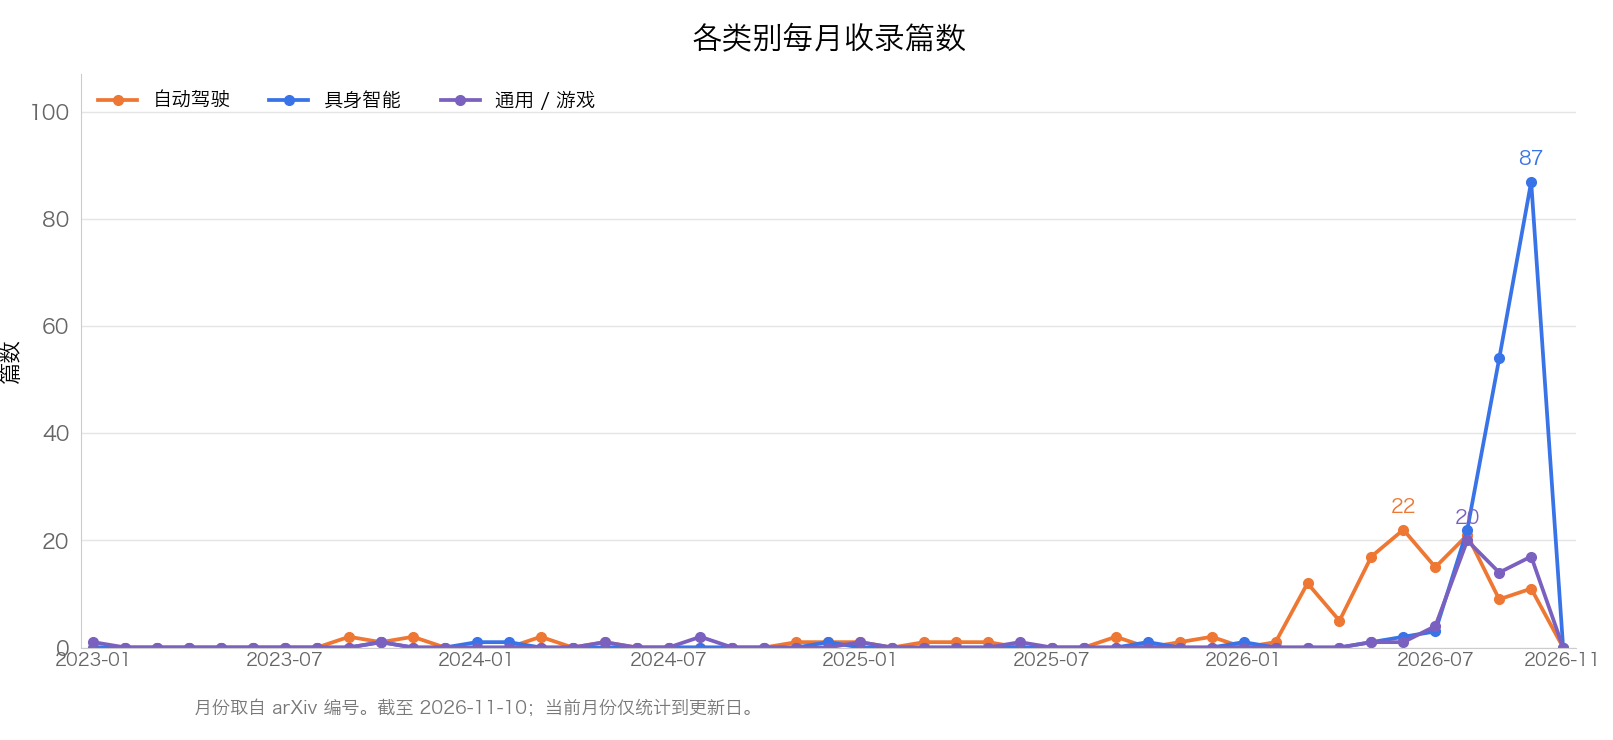
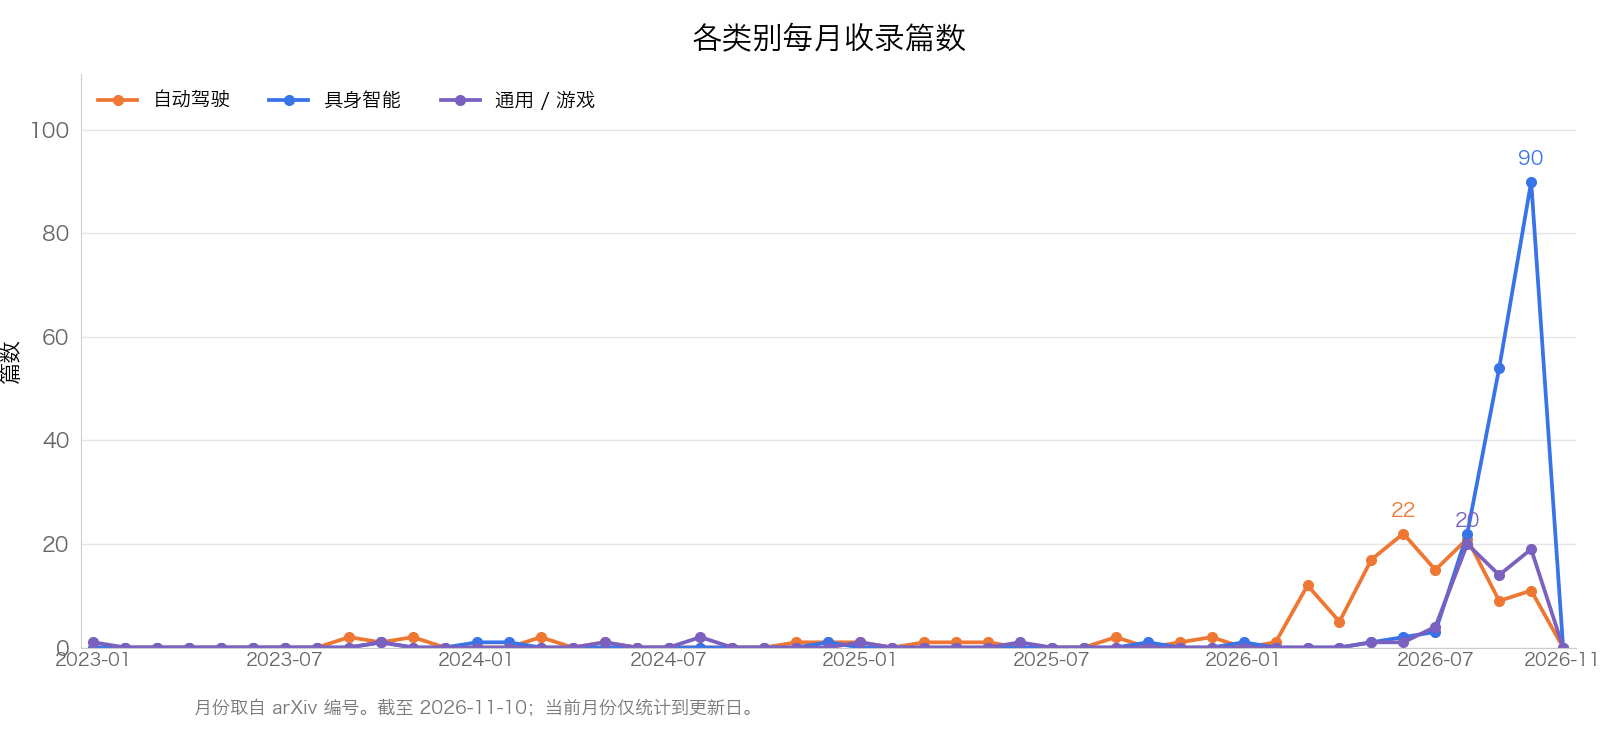
[update] aw-0, cadre, liveact, causal world models, physicalworld
Curate 5 of 6 candidates from issue #50, record screening decisions, and regenerate bilingual READMEs and monthly charts.

diff --git a/README.en.md b/README.en.md
@@ -10,7 +10,7 @@
 
 World models learn dynamic representations of their environments to predict and imagine the future. Interactive world models further support action-conditioned generation and control, providing data engines, neural simulators, and a foundation for policy learning in autonomous driving and embodied AI. This repository collects representative work, organized by application domain and annotated with its interactive capabilities.
 
-📊 **371** papers collected | Last updated: 2026-11-10
+📊 **376** papers collected | Last updated: 2026-11-10
 
 <p align="center">
   <img src="assets/interactive-world-model.en.svg" alt="Interactive world models: closed-loop interaction between agents and world models" width="760">
@@ -32,8 +32,8 @@ World models learn dynamic representations of their environments to predict and 
 ## Contents
 
 - [Autonomous Driving](#autonomous-driving) (132)
-- [Embodied AI](#embodied-ai) (175)
-- [General / Game](#general--game) (64)
+- [Embodied AI](#embodied-ai) (178)
+- [General / Game](#general--game) (66)
 
 ## Autonomous Driving
 
@@ -182,6 +182,7 @@ World models learn dynamic representations of their environments to predict and 
 | **ALONE**: Acting from Belief, Looking When Needed: A Bayesian Spatial World Model for Navigation under Intermittent Perception | arXiv (2026) | Qiyuan Lab / Tsinghua University | 🎮 🔁 | [Paper](https://arxiv.org/abs/2610.11591) | Geometrically transports spatial beliefs using executed actions, then learns completion and observation correction, using reliability maps to decide when to reacquire depth. All 10 drone trials in an indoor Lattice environment complete 10-meter navigation, acquiring depth on 7.0% of decision steps. Validation covers static environments only and still relies on visual-inertial odometry for belief propagation. |
 | **Action Jets**: Learning the Local Shape of the Action-conditioned Data Manifold | arXiv (2026) | University of Michigan | 🎮 | [Paper](https://arxiv.org/abs/2610.19007) \| [Project](https://anton-arapin.github.io/action-jets-site/) | Extracts action tangents from a frozen generator and learns third-order corrections, then evaluates candidate action outcomes in batches with polynomials. In offline verification of 32 action candidates on BridgeData V2, action MSE is 0.025 versus 0.030 for IRASim. Zero action is constrained to the identity map; evaluation is short-horizon and open-loop, with worse image quality than IRASim at steps 3–4. |
 | **Rollout Truncation**: Adaptive Rollout Truncation Based on Epistemic Uncertainty for Efficient Offline World Model Training | arXiv (2026) | TUM | 🎮 ⏳ | [Paper](https://arxiv.org/abs/2609.21482) | Multi-step autoregression extends world-model predictions, but fixed rollout lengths amplify early errors and waste computation while the model remains inaccurate. After warm-up, a rollout is truncated when epistemic uncertainty exceeds a threshold. On ANYmal-D, prediction accuracy is comparable to fixed-length rollouts and RWM-U, with approximately 72% less rollout computation. |
+| **AW-0**: Agentic World Action Models | arXiv (2026) | UC Berkeley / NVIDIA / University of Pennsylvania | 🔁 | [Paper](https://arxiv.org/abs/2610.30136) \| [Project](https://agentic-wam.github.io/) \| [Code](https://github.com/ZhuoyangLiu2005/agentic-wam) | Jointly denoises skill programs, future video, and actions, reobserving after program or action-chunk execution. Its average rubric score across eight real-robot tasks is 71.1%, rather than binary success. RoboTwin visual-randomization success is 20.6%, below π0.5's 27.7%; video prediction is not externally action-conditioned. |
 | **AnisoWM**: Anisotropic Representations Improve Planning in JEPA World Models | arXiv (2026) | Seoul National University / Ewha Womans University | 🎮 🔁 | [Paper](https://arxiv.org/abs/2609.37441) \| [Project](https://rkdrn79.github.io/AnisoWM-page/) | Keeps the predictor and Euclidean planner unchanged, replacing only an isotropic Gaussian target with a learnable diagonal covariance. Planning success exceeds LeWM in all four environments: TwoRoom rises from 87% to 93%, Reacher from 86% to 89%, PushT from 96% to 97%, and Cube from 74% to 79%. Spearman correlation between latent cost and task cost increases from 0.15 to 0.91 on Cube and from 0.65 to 0.92 on PushT. |
 | **AnyWorld**: Factorized Egocentric World Models for Cross-Embodiment Generalization | arXiv (2026) | — | 🎮 | [Paper](https://arxiv.org/abs/2608.29242) | Decomposes a single human interaction into three controllable factors: action, camera, and embodiment. Action control captures motion structure, camera control specifies viewpoint evolution, and target-embodiment context defines the executing body and its interaction geometry. Without paired human-robot demonstrations, an egocentric human video can be recomposed into diverse robot-native rollouts while preserving the underlying dynamics and object interactions. Following large-scale human-interaction pretraining and mixed-embodiment fine-tuning, generated data improve manipulation on the RoboCasa GR1 tabletop benchmark and the real IRON humanoid robot. Ablations show that both action calibration and visual recomposition are necessary. |
 | **Back on Track**: Deployment-time Policy Improvement via World Model Planning | arXiv (2026) | Stanford University / University of Southern California | 🎮 🔁 | [Paper](https://arxiv.org/abs/2610.19579) \| [Project](https://policy-improvement-wm.pages.dev/) | A policy-conditioned liveness value monitors execution and guides short corrective plans in a latent world model; across 3,000 paired trials on perturbed LIBERO-Goal, π0.5 success rises from 72.6% to 81.5%. Policy- and task-specific data are required, and model errors can still disrupt otherwise successful executions. |
@@ -194,6 +195,7 @@ World models learn dynamic representations of their environments to predict and 
 | **CF-JEPA**: Improving Robustness of JEPA World Models via Controllability Factorization | arXiv (2026) | Georgia Institute of Technology / Georgia Tech Research Institute | 🎮 🔁 | [Paper](https://arxiv.org/abs/2610.00727) | Splits JEPA's latent space into controllable and uncontrollable components and plans only with the controllable component. Under two visual distractors, LeWM collapses on all tasks; Reacher success is 0.10 for SMWM and 0.48 for CF-JEPA. With additional distractors, SMWM's PushT and TwoRoom success drops from 0.86 and 0.98 to 0.27 and 0.46, while CF-JEPA maintains 0.57 and 0.82. |
 | **CLAP**: Cross-Embodiment Video World Models are Zero-Shot Physical Simulators | arXiv (2026) | — | 🎮 | [Paper](https://arxiv.org/abs/2608.27406) \| [Project](https://omni-clap.github.io) | Unifies heterogeneous action spaces through end-effector poses, language instructions, and latent actions. Curriculum-based cross-embodiment training first learns physical priors from unlabeled internet videos, then grounds them in real action spaces for zero-shot deployment. It approaches or exceeds single-embodiment SOTA in environments including DROID; all code and models are open source. |
 | **OneWM**: Can World and Action Modeling Benefit Each Other under Unified Causal Training? | arXiv (2026) | The University of Hong Kong / Shanghai Jiao Tong University / Tsinghua University / SII / University of Chinese Academy of Sciences / IAAI Team | 🎮 🔁 | [Paper](https://arxiv.org/abs/2610.21095) \| [Project](https://selen-suyue.github.io/OneWMNet) | Within one causal architecture, supervises world prediction with the visual consequences of specified actions and jointly learns actions. Against action-masked WAMmask, overall success rises from 53.37% to 59.27% on LIBERO-Plus and from 28.32% to 36.68% on RoboCasa365. Across three real-robot tasks with 15 trials each, mean success rises from 48.9% to 66.7%. Policy deployment does not generate future video. On LIBERO, Fast-WAM remains at 97.60% while OneWM reaches 94.95%. |
+| **Causal world models under physical parameter shifts** | arXiv (2026) | The City College of New York | 🎮 | [Paper](https://arxiv.org/abs/2610.29088) | Combines mass-affine dynamics, known PD control, and learned residuals. In 150-step CausalWorld mass extrapolation, median time-averaged joint R² rises from 0.609 for the fixed-mass-input control to 0.727. The forecast spans only 0.6 seconds and assumes known masses and controller dynamics; real robots and downstream closed-loop control are untested. |
 | **CausalNav**: Reliability-Certified Causal World Models for Control under Physical-Parameter Shift | arXiv (2026) | Jun Shen team | — | [Paper](https://arxiv.org/abs/2608.07809) | A reliability-certified causal world model for navigation control under changes in physical parameters. |
 | **CausalWM**: Causal Chain-of-Thought Reasoning for Embodied World Model | arXiv (2026) | Aether AI | 🎮 | [Paper](https://arxiv.org/abs/2609.23184) \| [Project](https://aetherlabsai.github.io/CausalWM/) \| [Code](https://github.com/AetherLabsAI/CausalWM) | A 16B embodied video world model that predicts optical flow first, then 3D point maps, and finally future frames, with each preceding result fixed as context for the next stage. Training uses approximately 31,000 hours of embodied data. On the September 11, 2026 TriWorldBench evaluation, it ranks first among 36 publicly available models with 66.04, exceeding second place by 0.50. |
 | **CAG**: Completion Aware Guidance for World Action Models | arXiv (2026) | Seoul National University / KAIST | 🎮 🔁 | [Paper](https://arxiv.org/abs/2610.01559) | Short-chunk control can cause world-action models to repeatedly select plausible local continuations while omitting the state transitions needed to complete the task. CAG provides training-free sampling guidance without retraining the backbone. Success rises from 64% to 70% on a RoboTwin 2.0 subset and from 69% to 75% in zero-shot simulation, while imagined task non-completion falls from 79% to 40%. |
@@ -273,6 +275,7 @@ World models learn dynamic representations of their environments to predict and 
 | **Pelican-Sim**: Pelican-Sim 1.0: A General World Model Simulator for Embodied Intelligence | arXiv (2026) | X-Humanoid | 🎮 🔁 | [Paper](https://arxiv.org/abs/2609.12036) \| [Project](https://zoushilong1024.github.io/Pelican-Sim1.0/) \| [Code](https://github.com/Open-X-Humanoid/Pelican-Sim1.0) | Predicts future observations using a unified 28-dimensional action interface, camera-aligned action-video injection, and sparse MoE, trained on approximately one million real-robot and simulated trajectories. After four-step autoregressive distillation, it augments 50 demonstrations per RoboTwin task with 500 additional generated trajectories, raising policy success from 70% to 93%. It also supports policy ranking, action selection, and policy improvement in imagination. |
 | **PhysCoRe**: Physics-Corrected Residual World Models for Material-Aware Deformable Dynamics | CoRL (2026) | Georgia Tech | 🎮 🔁 | [Paper](https://arxiv.org/abs/2607.20653) \| [Project](https://lunarlab-gatech.github.io/PhysCoRe-website/) \| [Code](https://github.com/lunarlab-gatech/PhysCoRe) | A differentiable material-point-method simulator handles basic physics. One network estimates each particle's elasticity from images, while another corrects systematic simulator bias. It can identify materials of new objects online, and regions with less certain predictions are more valuable to probe through contact. Prediction accuracy on real-robot soft-object manipulation sequences exceeds existing baselines. |
 | **PhysReal**: Learning Real-World Deformable Object Physics via Hybrid Constitutive Modeling | arXiv (2026) | Beijing Institute of Technology | — | [Paper](https://arxiv.org/abs/2609.07532) \| [Project](https://physreal.github.io/) | Learns real deformable-body physics from video: analytical expert constitutive models provide interpretable priors, neural residuals capture unmodeled responses, and spatially partitioned parameters represent local material differences, combined with differentiable MPM and 3DGS. A curriculum sequentially optimizes global, local, and residual components for dynamic reconstruction, future-state prediction, and downstream manipulation. |
+| **PhysiCalWorld**: In-Context Physics Calibration for World Models | arXiv (2026) | University of Michigan | 🎮 🔁 | [Paper](https://arxiv.org/abs/2610.30125) \| [Project](https://physical-world.github.io/) \| [Code](https://github.com/physical-world/physical-world-release) | Compresses exploratory interaction into a physics descriptor token to calibrate action-conditioned latent dynamics without fine-tuning. With a 75-step budget in simulated Push-T, DINO-WM closed-loop success rises from 56.0% to 68.0%; prior interaction and stationary episode physics are required, without real-robot validation. |
 | **PhysCanvas**: Physical Canvas: A Vision Tactile World Model For Robot Policy Evaluation And Learning | arXiv (2026) | CASIA / Anyverse Robotics / Open-Phoenix Team / National University of Singapore / Xi'an Jiaotong University / Beijing Institute of Technology | 🎮 🔁 | [Paper](https://arxiv.org/abs/2610.28613) \| [Project](https://zebinx.github.io/PhysCanvas_HomePage/) \| [Code](https://github.com/OpenPhoenix-Team/PhysCanvas) | Unifies vision, touch, and task state on an image canvas, predicts futures from projected joint actions, and uses consistency supervision for closed-loop evaluation and GRPO inside the model. Across four real-robot tasks, π0.5 mean success rises from 59.1% to 70.8%, with task-dependent gains. Training and RL post-training code is not fully released. |
 | **PlayPolicy**: Dexterity from Supervised Play | arXiv (2026) | Amazon Frontier AI & Robotics / University of Maryland | 🎮 🔁 | [Paper](https://arxiv.org/abs/2610.22340) \| [Project](https://play-policy.github.io/) | An action-conditioned world model is trained on autonomous play and used for model-predictive control over play-policy proposals. Simulated reorientation succeeds on 72.7/91.4/96.1% of 128 distant-goal trials at 0.4/0.6/0.8 rad, versus 25.8/53.9/71.9% for hindsight behavior cloning; real-robot rates are 68.6/90.0/97.1%, within 4.1 points of simulation. Median replanning takes 134 ms on an RTX 5090, and code is not yet released. |
 | **PointCast**: One World Model for Rigid, Articulated, and Deformable Object Manipulation | arXiv (2026) | University of Minnesota | 🎮 🔁 | [Paper](https://arxiv.org/abs/2609.28393) \| [Project](https://pointcast-wm.github.io) | Represents states with 3D points on objects and the end effector, maintaining each point's identity and supervising it along its own trajectory. The same 19.8M diffusion Transformer and training recipe cover rigid bodies, cloth, ropes, and articulated cabinets, with separate weights for each regime. Simulated rollout error is best on cloth, ropes, and cabinets; real-robot PGND error is lowest in four of six categories and improves over the original model in all six. Frozen inside sampling-based model predictive control, it achieves a pushing pose error of 1.39 cm and a rope-dragging Chamfer distance of 1.71 cm. |
@@ -379,6 +382,7 @@ World models learn dynamic representations of their environments to predict and 
 | **LeHami**: Symplectic Latent Dynamics for World Models | arXiv (2026) | New York University / Brown University / AMI Labs | 🎮 🔁 | [Paper](https://arxiv.org/abs/2610.15267) \| [Code](https://github.com/rominay/LeHami) | Learns an action-conditioned Hamiltonian over position–momentum latents, using symplectic leapfrog integration to preserve latent phase-space volume. Validation is limited to visual pendulums. At 15 TFLOPs per episode and a replanning interval of 9, joint position-and-velocity goal success is 26%, versus 39% for a three-frame LeWM baseline; the structural guarantee does not establish uniformly better control. |
 | **LeWi**: Learning Computational Structure for Sample-Efficient Prediction | arXiv (2026) | Georgia Institute of Technology / University of Cyprus | 🎮 | [Paper](https://arxiv.org/abs/2610.28555) | Jointly learns connectivity and weights through low-dimensional neuron embeddings to predict state changes from the current state and action. In 16-step open-loop evaluation across 17 simulated tasks with 16 paired seeds, it improves sample efficiency over dense networks on 16 tasks. Closed-loop control is untested, and sparse connectivity is still computed densely. |
 | **VPM**: Learning the 4D World through Point Trajectory Forecasting | arXiv (2026) | KAIST / ETH Zürich / Seoul National University / New York University / RLWRLD / Physics Sim Lab | 🔁 | [Paper](https://arxiv.org/abs/2610.28594) \| [Project](https://rootyjeon.github.io/video-point-model/) \| [Code](https://github.com/rootyJeon/VPM) | Jointly forecasts multi-view video and persistent 3D point trajectories, with matched-budget ablations showing gains in geometric consistency and robot action learning. Forecast tracks support qualitative receding-horizon control through kinematic conversion, but joint action generation does not establish externally action-conditioned prediction, and calibrated cameras are required. |
+| **LiveAct**: Towards Real-Time Multi-Agent World Models with Heterogeneous Action Interfaces | arXiv (2026) | Tsinghua University / Kling Team / HKUST / Peking University / University of Science and Technology of China | 🎮 ⚡ | [Paper](https://arxiv.org/abs/2610.29408) \| [Project](https://liveact-ai.github.io/) | Unifies multi-agent game and robot control through agent-specific spatial gating and semantic–numerical action interfaces. It reports 17.70 FPS at 512×448 on one GPU without naming the GPU model. Quantitative evaluation covers 81 frames; distillation improves speed while reducing some robot-control accuracy, without closed-loop policy validation. |
 | **LongForcing**: Scaling Temporal Manifold Matching for Long-Horizon World Rollout | arXiv (2026) | AMAP, Alibaba Group / Tsinghua University | 🎮 ⏳ | [Paper](https://arxiv.org/abs/2610.18289) | Supervises long student self-rollouts with an extended-window teacher while retaining the inference architecture. With a fixed 1.3B backbone on first-person 60-second WorldRoamBench rollouts, extending supervision from about 5 to 20 seconds raises action score from 64.39 to 88.26. Teacher checkpoints also change with the window; 24-hour rollouts are qualitative stress tests only. |
 | **LpWM**: A Case for Sparse Representations in World Models | arXiv (2026) | NYU / AMI Labs | 🎮 🔁 | [Paper](https://arxiv.org/abs/2608.22764) \| [Code](https://github.com/YilunKuang/lpworldmodel) | Argues that sparse representations provide more favorable geometry for world models: RDMReg regularizes JEPA to learn nonnegative sparse latent codes, improving planning success rates on PushT by up to 57% with lower predictor complexity, while the learned representations exhibit an interpretable structure decomposed into modes. |
 | **MASS**: Multiplayer World Models with Authoritative Shared State | arXiv (2026) | Boxin Shi's team | — | [Paper](https://arxiv.org/abs/2608.06257) | A multiplayer world model with authoritative shared state that addresses state synchronization across multiple agents. |
@@ -396,6 +400,7 @@ World models learn dynamic representations of their environments to predict and 
 | **Qwen-RobotWorld**: A Joint World Model Integrating Driving, Navigation and Manipulation | arXiv (2026) | Alibaba Qwen | 🎮 | [Paper](https://arxiv.org/abs/2606.17030) | Uses language as a unified action interface to extend video world models to autonomous driving, navigation, and robotic manipulation. |
 | **R2M-Bench**: Evaluating Revisit Memory via Relative Consistency in Interactive Video World Models | arXiv (2026) | — | — | [Paper](https://arxiv.org/abs/2608.27328) \| [Code](https://github.com/AMAP-ML/R2MBench) | Shows that absolute similarity between first-visit and revisit frames can be misled by a 'slow-motion shortcut'. It proposes MemoryGain and the normalized memory ratio NMR, calibrated relatively using gap-matched non-revisit pairs and short-range pairs within the same rollout. The benchmark covers appearance, scene and object identity, local geometry, and persistent state, evaluates 7 action-conditioned video world models, and correlates with human consistency judgments at rho=0.547. |
 | **PROWBench**: ROWBench: Do Video Models Render What the Program Specifies? | arXiv (2026) | Alaya Lab | — | [Paper](https://arxiv.org/abs/2610.02205) \| [Project](https://alaya-lab.github.io/PROWBench) \| [Code](https://github.com/AlayaLab/PROWBench) | Contains 170 program-generated episodes and 600 proxy videos. The engine records entity states and timestamped events, including off-screen events, then checks whether generated videos render those events. Metrics cover entity control, long-term memory, logic-to-visual alignment, and interaction success rate. |
+| **CADRE**: Rethinking Video Autoencoders for Interactive World Models | arXiv (2026) | Kyutai / LIGM, ENPC, IP Paris, CNRS, UGE / UC Berkeley | 🎮 ⚡ ⏳ | [Paper](https://arxiv.org/abs/2610.30129) \| [Project](https://kyutai.org/blog/2026-10-22-cadre/) \| [Code](https://github.com/kyutai-labs/cadre-autoencoders-and-world-models) \| [Demo](https://cadre-wm.kyutai.org/) | Compares causal video compression through matched world-model architectures across four environments. On one H100 at 288×512, the 2×32×32 configuration with one-step decoding supports a 20 FPS display and 185 ms action latency; 64-second fixed-camera robot-manipulation rollouts are evaluated quantitatively. Compression depends on camera motion, models are trained per environment, and policy-planning benefits remain untested. |
 | **SCOPE**: Score-Isolated Agentic Optimization for Video World Models | arXiv (2026) | Yuhua Jiang's team | 🎮 | [Paper](https://arxiv.org/abs/2608.15043) | Proposes a score-isolated agentic optimization framework that decouples the evaluation of prompts, samplers, verifiers, and selectors, making inference-time optimization of video world models more reliable for planning and embodied decision-making. |
 | **SPW-Nav**: A Streaming Panoramic World Model for Language-Guided Navigation | arXiv (2026) | Alaya Lab / Peking University / Institute of Science Tokyo | 🎮 ⚡ ⏳ | [Paper](https://arxiv.org/abs/2610.08941) \| [Project](https://alaya-lab.github.io/SPW-Nav/) | Converts language instructions grounded in the current generated panorama into camera motion, decoupling spherical rotation resampling from translation generation. Pose-aligned conditioning and multi-term memory support instruction switching during streaming. From one panorama, it generates a continuous minute of 2048 x 1024 video at 26.6 FPS on eight H200 GPUs, with a 16 FPS playback rate. SPW-NavSet contains 233 hours of panoramic video. |
 | **STRIKE**: Learning Visual State Transitions for Physical World Modeling | arXiv (2026) | Applied Intuition / University of Southern California / University of California, Berkeley | — | [Paper](https://arxiv.org/abs/2610.09514) | Learns next visual states conditioned on local event descriptions and elapsed time from event-aligned video state pairs, then guides dense video generation with recursively predicted states and timestamps. The CogVideoX-5B version raises the Physics-IQ Verified score from 30.5 to 41.9. Interactions are expressed as textual events; action-trajectory control and closed-loop robot execution are not validated. |

diff --git a/README.md b/README.md
@@ -10,7 +10,7 @@
 
 世界模型 (World Model) 通过学习环境的动态表征，实现对未来的预测与想象； 可交互世界模型进一步支持以动作 (action) 为条件的生成与控制， 为自动驾驶和具身智能提供数据引擎、神经仿真器与策略学习基础。 本仓库收录并整理该方向的代表性工作，按应用场景分类， 并标注每篇工作的交互能力维度。
 
-📊 共收录 **371** 篇工作 ｜ 最后更新：2026-11-10
+📊 共收录 **376** 篇工作 ｜ 最后更新：2026-11-10
 
 <p align="center">
   <img src="assets/interactive-world-model1.png" alt="交互式世界模型：智能体与世界模型的闭环交互" width="760">
@@ -32,8 +32,8 @@
 ## 目录
 
 - [自动驾驶 Autonomous Driving](#自动驾驶-autonomous-driving)（132）
-- [具身智能 Embodied AI](#具身智能-embodied-ai)（175）
-- [通用 / 游戏 General / Game](#通用--游戏-general--game)（64）
+- [具身智能 Embodied AI](#具身智能-embodied-ai)（178）
+- [通用 / 游戏 General / Game](#通用--游戏-general--game)（66）
 
 ## 自动驾驶 Autonomous Driving
 
@@ -182,6 +182,7 @@
 | **ALONE**: Acting from Belief, Looking When Needed: A Bayesian Spatial World Model for Navigation under Intermittent Perception | arXiv (2026) | 启元实验室 / 清华大学 | 🎮 🔁 | [论文](https://arxiv.org/abs/2610.11591) | 先按已执行动作几何搬运空间信念，再学习补全与观测修正，并用可靠性图决定何时重新获取深度。室内 Lattice 环境的 10 次无人机试验全部完成 10 米导航，深度采集占决策步的 7.0%；仅验证静态环境，仍依赖视觉惯性里程计传播信念。 |
 | **Action Jets**: Learning the Local Shape of the Action-conditioned Data Manifold | arXiv (2026) | University of Michigan | 🎮 | [论文](https://arxiv.org/abs/2610.19007) \| [项目](https://anton-arapin.github.io/action-jets-site/) | 从冻结生成器提取动作切线并学习三阶校正，随后用多项式批量评估动作后果。BridgeData V2 离线 32 候选动作验证中，动作 MSE 为 0.025，IRASim 为 0.030；零动作被约束为恒等映射，仅验证短时开环，第 3–4 步画质落后于 IRASim。 |
 | **Rollout Truncation**: Adaptive Rollout Truncation Based on Epistemic Uncertainty for Efficient Offline World Model Training | arXiv (2026) | TUM | 🎮 ⏳ | [论文](https://arxiv.org/abs/2609.21482) | 多步自回归能拉长世界模型的预测，但固定展开长度在模型还不准时会放大早期错误并浪费计算。热身之后，认知不确定性超过阈值就截断这次展开。在 ANYmal-D 上，预测精度与固定长度和 RWM-U 相当，展开计算大约少 72%。 |
+| **AW-0**: Agentic World Action Models | arXiv (2026) | UC Berkeley / NVIDIA / University of Pennsylvania | 🔁 | [论文](https://arxiv.org/abs/2610.30136) \| [项目](https://agentic-wam.github.io/) \| [代码](https://github.com/ZhuoyangLiu2005/agentic-wam) | 联合去噪技能代码、未来视频与动作，并在代码或动作块执行后重新观察；八项真机任务的平均 rubric 得分为 71.1%，并非二值成功率。RoboTwin 视觉随机化成功率为 20.6%，低于 π0.5 的 27.7%；视频预测不以外部动作为条件。 |
 | **AnisoWM**: Anisotropic Representations Improve Planning in JEPA World Models | arXiv (2026) | 首尔大学 / 梨花女子大学 | 🎮 🔁 | [论文](https://arxiv.org/abs/2609.37441) \| [项目](https://rkdrn79.github.io/AnisoWM-page/) | 预测器和欧氏规划器不动，只把各向同性高斯目标换成可学习的对角协方差。四个环境的规划成功率都高于 LeWM：TwoRoom 87% 到 93%，Reacher 86% 到 89%，PushT 96% 到 97%，Cube 74% 到 79%。Cube 上潜代价与任务代价的 Spearman 相关从 0.15 到 0.91，PushT 从 0.65 到 0.92。 |
 | **AnyWorld**: Factorized Egocentric World Models for Cross-Embodiment Generalization | arXiv (2026) | — | 🎮 | [论文](https://arxiv.org/abs/2608.29242) | 把单次人类交互分解为动作、相机、本体三个可控因子——动作控制捕捉运动结构、相机控制指定视角演化、目标本体上下文定义执行身体及其交互几何，无需成对 human-robot 演示即可将一段第一视角人类视频重组合成多样的机器人原生 rollout，同时保留底层动力学与物体交互；经大规模人类交互预训练+混合本体微调，生成数据可提升 RoboCasa GR1 桌面基准与真机 IRON 人形机器人操作性能，消融表明动作校准与视觉重组合二者缺一不可。 |
 | **Back on Track**: Deployment-time Policy Improvement via World Model Planning | arXiv (2026) | Stanford University / University of Southern California | 🎮 🔁 | [论文](https://arxiv.org/abs/2610.19579) \| [项目](https://policy-improvement-wm.pages.dev/) | 以策略条件活性价值监测执行并引导潜空间世界模型的短时纠偏，在扰动 LIBERO-Goal 的 3,000 次配对试验中将 π0.5 成功率从 72.6% 提升至 81.5%；需策略与任务相关数据，模型误差仍会破坏原本成功的执行。 |
@@ -194,6 +195,7 @@
 | **CF-JEPA**: Improving Robustness of JEPA World Models via Controllability Factorization | arXiv (2026) | 佐治亚理工学院 / 佐治亚理工研究院 | 🎮 🔁 | [论文](https://arxiv.org/abs/2610.00727) | 把 JEPA 潜空间拆成可控和不可控两部分，规划只用可控部分。两个视觉干扰下，LeWM 在全部任务上坍缩；Reacher 上 SMWM 成功率 0.10，CF-JEPA 为 0.48。干扰再增加时，SMWM 的 PushT 和 TwoRoom 从 0.86、0.98 掉到 0.27、0.46，CF-JEPA 维持 0.57 和 0.82。 |
 | **CLAP**: Cross-Embodiment Video World Models are Zero-Shot Physical Simulators | arXiv (2026) | — | 🎮 | [论文](https://arxiv.org/abs/2608.27406) \| [项目](https://omni-clap.github.io) | 用末端位姿、语言指令与潜动作统一异构动作空间，以课程式跨本体训练先从无标注互联网视频学物理先验、再接地到真实动作空间做零样本部署，在 DROID 等环境逼近或超越单本体 SOTA，代码与模型全部开源。 |
 | **OneWM**: Can World and Action Modeling Benefit Each Other under Unified Causal Training? | arXiv (2026) | The University of Hong Kong / Shanghai Jiao Tong University / Tsinghua University / SII / University of Chinese Academy of Sciences / IAAI Team | 🎮 🔁 | [论文](https://arxiv.org/abs/2610.21095) \| [项目](https://selen-suyue.github.io/OneWMNet) | 在同一因果架构里，用指定动作的视觉后果监督世界预测，并联合学习动作。相对屏蔽动作的 WAMmask，LIBERO-Plus 总成功率由 53.37% 升至 59.27%，RoboCasa365 由 28.32% 升至 36.68%；三真机任务各 15 次的平均成功率由 48.9% 升至 66.7%。策略部署时不生成未来视频，LIBERO 上 Fast-WAM 仍为 97.60%，OneWM 为 94.95%。 |
+| **Causal world models under physical parameter shifts** | arXiv (2026) | The City College of New York | 🎮 | [论文](https://arxiv.org/abs/2610.29088) | 将已知连杆质量显式接入质量仿射动力学，并结合已知 PD 控制和学习残差；CausalWorld 的 150 步质量外推中，时间平均关节 R² 中位数由固定质量输入对照的 0.609 升至 0.727。预测仅 0.6 秒，依赖已知质量与控制器，尚无真机或下游闭环验证。 |
 | **CausalNav**: Reliability-Certified Causal World Models for Control under Physical-Parameter Shift | arXiv (2026) | Jun Shen 团队 | — | [论文](https://arxiv.org/abs/2608.07809) | 物理参数变化下可靠性认证的因果世界模型，用于导航控制。 |
 | **CausalWM**: Causal Chain-of-Thought Reasoning for Embodied World Model | arXiv (2026) | Aether AI | 🎮 | [论文](https://arxiv.org/abs/2609.23184) \| [项目](https://aetherlabsai.github.io/CausalWM/) \| [代码](https://github.com/AetherLabsAI/CausalWM) | 16B 具身视频世界模型先预测光流，再预测三维点图，最后预测未来画面，前一步结果固定为后一步的上下文。训练用了约 3.1 万小时具身数据。2026 年 9 月 11 日的 TriWorldBench 上，36 个已公开模型里以 66.04 排第一，比第二名高 0.50。 |
 | **CAG**: Completion Aware Guidance for World Action Models | arXiv (2026) | 首尔大学 / KAIST | 🎮 🔁 | [论文](https://arxiv.org/abs/2610.01559) | 短块控制会让世界–动作模型反复选看起来合理的局部延续，把完成任务所需要的状态转移丢掉。CAG 是免训练的采样引导，骨干没有重训。RoboTwin 2.0 子集上成功率从 64% 到 70%，零样本仿真从 69% 到 75%，任务未完成的想象从 79% 降到 40%。 |
@@ -273,6 +275,7 @@
 | **Pelican-Sim**: Pelican-Sim 1.0: A General World Model Simulator for Embodied Intelligence | arXiv (2026) | X-Humanoid | 🎮 🔁 | [论文](https://arxiv.org/abs/2609.12036) \| [项目](https://zoushilong1024.github.io/Pelican-Sim1.0/) \| [代码](https://github.com/Open-X-Humanoid/Pelican-Sim1.0) | 用 28 维统一动作和相机对齐的动作视频注入，配合稀疏 MoE，在约一百万条真机与仿真轨迹上预测未来观测。四步自回归蒸馏后，在 RoboTwin 上把每任务 50 条示教增广到再加 500 条生成轨迹，策略成功率从 70% 升至 93%，并可做策略排序、动作选择和想象中的策略改进。 |
 | **PhysCoRe**: Physics-Corrected Residual World Models for Material-Aware Deformable Dynamics | CoRL (2026) | Georgia Tech | 🎮 🔁 | [论文](https://arxiv.org/abs/2607.20653) \| [项目](https://lunarlab-gatech.github.io/PhysCoRe-website/) \| [代码](https://github.com/lunarlab-gatech/PhysCoRe) | 可微物质点法仿真器负责基本物理，一个网络从画面估计每个粒子的弹性，另一个网络修正仿真器的系统性偏差。对新物体可以在线辨认材料，预测越没把握的区域越值得再去接触；真机软物体操作序列上的预测精度超过已有基线。 |
 | **PhysReal**: Learning Real-World Deformable Object Physics via Hybrid Constitutive Modeling | arXiv (2026) | 北京理工大学 | — | [论文](https://arxiv.org/abs/2609.07532) \| [项目](https://physreal.github.io/) | 从视频学习真实可变形体物理：解析专家本构提供可解释先验，神经残差补未建模响应，空间分块参数化局部材料差异，配可微 MPM 与 3DGS；课程式依次优化全局、局部与残差，用于动态重建、未来状态预测及下游操作。 |
+| **PhysiCalWorld**: In-Context Physics Calibration for World Models | arXiv (2026) | University of Michigan | 🎮 🔁 | [论文](https://arxiv.org/abs/2610.30125) \| [项目](https://physical-world.github.io/) \| [代码](https://github.com/physical-world/physical-world-release) | 将测试场景的探索交互压缩为物理描述 token，无需微调即可校准动作条件潜动力学；75 步上限的仿真 Push-T 中，DINO-WM 闭环成功率由 56.0% 升至 68.0%，但依赖先行交互与回合内物理恒定，尚无真机验证。 |
 | **PhysCanvas**: Physical Canvas: A Vision Tactile World Model For Robot Policy Evaluation And Learning | arXiv (2026) | CASIA / Anyverse Robotics / Open-Phoenix Team / National University of Singapore / Xi'an Jiaotong University / Beijing Institute of Technology | 🎮 🔁 | [论文](https://arxiv.org/abs/2610.28613) \| [项目](https://zebinx.github.io/PhysCanvas_HomePage/) \| [代码](https://github.com/OpenPhoenix-Team/PhysCanvas) | 将视觉、触觉与任务状态统一到图像画布，以投影关节动作驱动预测，并通过一致性监督支持模型内闭环评估与 GRPO；四项真机任务中 π0.5 平均成功率由 59.1% 升至 70.8%，收益随任务变化。训练与 RL 后训练代码尚未完整发布。 |
 | **PlayPolicy**: Dexterity from Supervised Play | arXiv (2026) | Amazon Frontier AI & Robotics / University of Maryland | 🎮 🔁 | [论文](https://arxiv.org/abs/2610.22340) \| [项目](https://play-policy.github.io/) | 用自主玩耍数据训练动作条件世界模型，并由玩耍策略提出候选、模型预测控制择优执行。仿真重定向在 0.4/0.6/0.8 rad 阈值的成功率为 72.7/91.4/96.1%，后见行为克隆为 25.8/53.9/71.9%（128 次远目标试验）；真机为 68.6/90.0/97.1%，与仿真相差不超过 4.1 个百分点。RTX 5090 上单次重规划中位耗时 134 ms，代码尚未发布。 |
 | **PointCast**: One World Model for Rigid, Articulated, and Deformable Object Manipulation | arXiv (2026) | 明尼苏达大学 | 🎮 🔁 | [论文](https://arxiv.org/abs/2609.28393) \| [项目](https://pointcast-wm.github.io) | 用物体和末端上的三维点做状态，每个点保持身份并按自己的轨迹受监督。同一套 19.8M 扩散 Transformer 和训练配方覆盖刚体、布料、绳子和多关节柜，每种体制单独存一个权重。仿真展开误差在布料、绳子、柜子上最好；真机 PGND 六类里四类最低，且六类都好于原模型。冻住后放进采样式模型预测控制，推姿态误差 1.39 cm，拖绳子 Chamfer 1.71 cm。 |
@@ -379,6 +382,7 @@
 | **LeHami**: Symplectic Latent Dynamics for World Models | arXiv (2026) | New York University / Brown University / AMI Labs | 🎮 🔁 | [论文](https://arxiv.org/abs/2610.15267) \| [代码](https://github.com/rominay/LeHami) | 在位置–动量潜状态上学习动作条件哈密顿量，以 leapfrog 辛积分保证潜空间体积守恒。仅在视觉摆环境验证；15 TFLOPs/回合、重规划间隔 9 时，位置与速度联合目标成功率为 26%，三帧 LeWM 对照为 39%，结构保证尚未带来全面控制优势。 |
 | **LeWi**: Learning Computational Structure for Sample-Efficient Prediction | arXiv (2026) | Georgia Institute of Technology / University of Cyprus | 🎮 | [论文](https://arxiv.org/abs/2610.28555) | 以神经元低维嵌入联合学习连接与权重，按当前状态和动作预测状态增量；17 个仿真任务、16 个配对种子的 16 步开环评测中，在 16 项任务上较稠密网络改善样本效率。尚无闭环控制验证，稀疏连接仍以稠密计算实现。 |
 | **VPM**: Learning the 4D World through Point Trajectory Forecasting | arXiv (2026) | KAIST / ETH Zürich / Seoul National University / New York University / RLWRLD / Physics Sim Lab | 🔁 | [论文](https://arxiv.org/abs/2610.28594) \| [项目](https://rootyjeon.github.io/video-point-model/) \| [代码](https://github.com/rootyJeon/VPM) | 联合预测多视图未来视频与持久三维点轨迹，以同预算消融验证点监督改善几何一致性和机器人动作学习；轨迹可经运动学转换用于定性滚动控制，但联合生成动作不等同于外部动作条件预测，且依赖标定相机。 |
+| **LiveAct**: Towards Real-Time Multi-Agent World Models with Heterogeneous Action Interfaces | arXiv (2026) | Tsinghua University / Kling Team / HKUST / Peking University / University of Science and Technology of China | 🎮 ⚡ | [论文](https://arxiv.org/abs/2610.29408) \| [项目](https://liveact-ai.github.io/) | 以主体空间门控和语义–数值动作接口统一游戏与机器人多主体控制；单 GPU 在 512×448 下报告 17.70 FPS，但未披露 GPU 型号。主定量评测仅 81 帧，蒸馏提高速度却损失部分机器人控制精度，尚无策略闭环验证。 |
 | **LongForcing**: Scaling Temporal Manifold Matching for Long-Horizon World Rollout | arXiv (2026) | 高德 / 清华大学 | 🎮 ⏳ | [论文](https://arxiv.org/abs/2610.18289) | 用长窗口教师监督学生自身长展开，保持推理架构不变。固定 1.3B 骨干的第一人称 60 秒 WorldRoamBench 中，将监督窗口从约 5 秒扩到 20 秒，动作分从 64.39 升至 88.26；教师检查点也随窗口替换，24 小时展开仅为定性压力测试。 |
 | **LpWM**: A Case for Sparse Representations in World Models | arXiv (2026) | NYU / AMI Labs | 🎮 🔁 | [论文](https://arxiv.org/abs/2608.22764) \| [代码](https://github.com/YilunKuang/lpworldmodel) | 论证稀疏表征是世界模型更有利的几何结构：用 RDMReg 正则化 JEPA 学习非负稀疏潜码，在 PushT 上以更低的预测器复杂度实现规划成功率最高提升 57%，且学到的表征呈模式分解的可解释结构。 |
 | **MASS**: Multiplayer World Models with Authoritative Shared State | arXiv (2026) | Boxin Shi 团队 | — | [论文](https://arxiv.org/abs/2608.06257) | 权威共享状态的多玩家世界模型，解决多智能体状态同步问题。 |
@@ -396,6 +400,7 @@
 | **Qwen-RobotWorld**: A Joint World Model Integrating Driving, Navigation and Manipulation | arXiv (2026) | Alibaba Qwen | 🎮 | [论文](https://arxiv.org/abs/2606.17030) | 将语言作为统一动作接口，把视频世界模型扩展到自动驾驶、导航和机器人操作。 |
 | **R2M-Bench**: Evaluating Revisit Memory via Relative Consistency in Interactive Video World Models | arXiv (2026) | — | — | [论文](https://arxiv.org/abs/2608.27328) \| [代码](https://github.com/AMAP-ML/R2MBench) | 指出首访-重访帧的绝对相似度会被「慢动作捷径」迷惑，提出在同一 rollout 内用间隙匹配的非重访对与短程对做相对校准的 MemoryGain 与归一化记忆比 NMR，覆盖外观、场景/物体身份、局部几何与持久状态，评测 7 个动作条件视频世界模型且与人类一致性判断相关 ρ=0.547。 |
 | **PROWBench**: ROWBench: Do Video Models Render What the Program Specifies? | arXiv (2026) | Alaya Lab | — | [论文](https://arxiv.org/abs/2610.02205) \| [项目](https://alaya-lab.github.io/PROWBench) \| [代码](https://github.com/AlayaLab/PROWBench) | 170 个由程序生成的回合、600 段代理视频。引擎记下实体状态和带时间戳的事件，包括镜头外的事件，再检查生成视频有没有把这些事件画出来。指标是实体控制、长时记忆、逻辑–画面对齐和交互成功率。 |
+| **CADRE**: Rethinking Video Autoencoders for Interactive World Models | arXiv (2026) | Kyutai / LIGM, ENPC, IP Paris, CNRS, UGE / UC Berkeley | 🎮 ⚡ ⏳ | [论文](https://arxiv.org/abs/2610.30129) \| [项目](https://kyutai.org/blog/2026-10-22-cadre/) \| [代码](https://github.com/kyutai-labs/cadre-autoencoders-and-world-models) \| [演示](https://cadre-wm.kyutai.org/) | 以四环境的同架构动作条件世界模型比较因果视频压缩；单 H100、288×512 下，2×32×32 单步解码配置支持 20 FPS 显示和 185 ms 动作延迟，并量化评测固定相机机器人操作的 64 秒展开。压缩选择依赖相机运动，各环境分别训练，尚未验证策略规划收益。 |
 | **SCOPE**: Score-Isolated Agentic Optimization for Video World Models | arXiv (2026) | Yuhua Jiang 团队 | 🎮 | [论文](https://arxiv.org/abs/2608.15043) | 提出评分隔离的 Agentic 优化框架，解耦 prompt/采样器/验证器/选择器的评估，使视频世界模型在规划与具身决策中推理时优化更可靠。 |
 | **SPW-Nav**: A Streaming Panoramic World Model for Language-Guided Navigation | arXiv (2026) | Alaya Lab / 北京大学 / 东京科学大学 | 🎮 ⚡ ⏳ | [论文](https://arxiv.org/abs/2610.08941) \| [项目](https://alaya-lab.github.io/SPW-Nav/) | 将当前生成全景中的语言指令转成相机运动，球面旋转重采样与平移生成解耦，结合位姿对齐条件和多时程记忆支持中途切换指令。从单张全景连续生成一分钟 2048×1024 视频；八张 H200 上生成速度 26.6 FPS，输出播放帧率为 16 FPS。SPW-NavSet 含 233 小时全景视频。 |
 | **STRIKE**: Learning Visual State Transitions for Physical World Modeling | arXiv (2026) | Applied Intuition / 南加州大学 / 加州大学伯克利分校 | — | [论文](https://arxiv.org/abs/2610.09514) | 从视频提取事件对齐的状态对，学习按局部事件描述和时间间隔预测下一视觉状态，再以递归预测的状态和时间戳引导稠密视频生成。CogVideoX-5B 版本在 Physics-IQ Verified 得分由 30.5 升至 41.9；交互通过文本事件表达，未验证动作轨迹控制或闭环机器人执行。 |

diff --git a/curation/2026-11-10.md b/curation/2026-11-10.md
@@ -66,3 +66,25 @@
 - `python3 -m unittest discover -s tests`：25 项通过；`git diff --check` 通过。
 - 已验证新增 11 个 arXiv ID/标题唯一、中英生成结果同步、分类及 2026-10 月计数增量正确、原有论文和 issue #48 记录未变、AGENTS.md 保持任务开始时内容。
 - 总数从 360 增至 371 篇（driving 132、embodied 175、general 64）。本轮无暂缓条目，4 篇排除理由均为当前收录范围不符。
+
+## Issue #50 — arXiv 候选论文更新 2026-10-22
+
+[原 issue](https://github.com/Zizizi-hao/Awesome-interactive-world-model-for-Pysical-Intelligence/issues/50)；6 篇候选均未收录，issue 无评论。本轮收录 5 篇（embodied 3、general 2），暂缓 0 篇，不收录 1 篇。按 AGENTS.md 核验原文方法、实验、限制和官方链接，仅处理本 issue。初次筛选后保留本地修改供人工审核；用户随后明确授权提交、推送并关闭 issue #50。`meta.updated` 已为本次日期 2026-11-10，无需重复修改。
+
+### 收录
+
+- **AW-0（embodied）**：代码/视频/动作专家联合建模，含同数据及预算的代码专家、注意力顺序消融，八项真机任务与多种子评测。注意力为 code→video→action，视频不读取动作，故不标 action；附录 I 执行后重新观察支持 closedloop。真机 71.1% 是 rubric 平均分，非二值成功率；RoboTwin 视觉随机化成功率 20.6% 低于 π0.5 的 27.7%，混合执行也非普遍改善。策略推理时延和长任务均不作为 realtime/longhorizon 证据。官方代码含训练、部署与评测及权重，但不包含预训练数据和起始 Cosmos checkpoint。[原文/附录 I、L](https://arxiv.org/html/2610.30136v1)、[项目](https://agentic-wam.github.io/)、[代码](https://github.com/ZhuoyangLiu2005/agentic-wam)。
+- **CADRE（general）**：虽然核心贡献是视频自编码器，但实际以四环境的同架构 1.2B 动作条件世界模型比较压缩、延迟和动作保真度，符合交互世界模型组件研究范围；标 action。单 H100、batch 1、bf16、288×512 的 2×32×32 单步解码配置实测吞吐 23.4 FPS，20 FPS 显示下动作延迟为 185 ms，标 realtime，不能推广到全部配置或多人共享服务。附录 H 在固定相机机器人操作中评测 256 片段的 64 秒/1280 帧展开，支持 longhorizon；不声称其他领域同样长时稳定。每环境单独训练，策略学习/规划收益尚未验证，不标 closedloop。官方代码和权重已发布；demo 本轮显示共享 GPU 状态不可用，未声称实际试玩成功。[原文/表 4、附录 H](https://arxiv.org/html/2610.30129v1)、[项目](https://kyutai.org/blog/2026-10-22-cadre/)、[代码](https://github.com/kyutai-labs/cadre-autoencoders-and-world-models)、[演示入口](https://cadre-wm.kyutai.org/)。
+- **LiveAct（general）**：主体空间调制绑定各动作流，schema 语义与数值调制兼容异构控制；六来源、108 个留出片段及各模块消融支持贡献。标 action/realtime：附录 F.1 实测单 GPU、512×448、四步生成 17.70 FPS，但没有 GPU 型号，保留硬件信息缺口，不推定特定设备可复现。主定量为单 seed、81 帧；蒸馏后机器人控制 NRMSE 从教师 0.430 变为 0.558。较长展开仅单例 241 帧展示，无策略反馈，故不标 longhorizon/closedloop。项目 Code 按钮为占位，省略 code。[原文/附录 E、F](https://arxiv.org/html/2610.29408v1)、[项目](https://liveact-ai.github.io/)。
+- **Causal world models under physical parameter shifts（embodied）**：质量仿射惯性/偏置、已知 PD 与学习残差，按状态及动作预测；两任务×五种子、互斥训练/测试质量范围及分别训练的固定质量输入对照支持外推研究。150 步消融的时间平均关节 R² 中位数为 0.609→0.727；100 步共享预测是另一协议，不混用。机器人依赖路由为人工固定，只有合成任务用成对干预估计掩码；不声称自动发现机器人因果图或全面胜过 RWM。预测仅 0.4–0.6 秒，真实质量与控制器已知，无真机或下游控制验证，仅标 action。未核实官方项目/代码，省略对应字段。[原文 §4–5/附录 B](https://arxiv.org/html/2610.29088v1)。
+- **PhysiCalWorld（embodied）**：将测试场景的探索交互编码为物理描述 token，训练时仅用潜预测损失校准动力学；四种物理变化仿真、两骨干、长历史/物理估计等对照支持方法。显式动作条件及附录 C.2 观测后重规划支持 action/closedloop；75 步上限的 Push-T MPC 成功率为 DINO-WM 56.0%→68.0%。该结果不同于主文单次 25 步计划；不把一次整段 CEM 执行误称闭环。需先采测试场景的有效探索接触片段、训练按物理配置分组，并假设回合内物理恒定；无真机、实时系统或长时一致性证据。官方代码含训练、MPC、评测与复现配置。[原文/附录 C.2](https://arxiv.org/html/2610.30125v1)、[项目](https://physical-world.github.io/)、[代码](https://github.com/physical-world/physical-world-release)。
+
+### 不收录
+
+- **WorldStream**：Jev 决策模型负责 Macro/Micro 布局计划，确定性局部代码编译几何、保存编辑并以控制器执行动作，式 11 的状态更新由本地程序执行。其贡献是场景规划、流式预取、持久状态与语言操作映射，未验证学习到的物理环境转移动力学；可玩、持久重访和长距离漫游不替代动力学证据。按当前范围排除，非系统质量否定。[原文 §3–6](https://arxiv.org/html/2610.28827v1)、[项目](https://krennic999.github.io/WorldStream/)、[官方仓库](https://github.com/krennic999/WorldStream)。
+
+### 本地验证
+
+- 已重新生成中英文 README 和两张月度统计图，完成字体、图例、日期与计数的目视核对。沿用临时 matplotlib 依赖和系统 CJK 字体的进程内别名，未修改生成器。
+- `python3 -m unittest discover -s tests`：25 项通过；`git diff --check` 通过。新增 5 个 arXiv ID/标题唯一，双语生成结果同步，6 篇候选均有决策记录。
+- 总数由 371 增至 376 篇（driving 132、embodied 178、general 66）；2026-10 月增量与分类新增量一致。原有论文、此前审核记录、AGENTS.md 与数据入口均保持不变。
